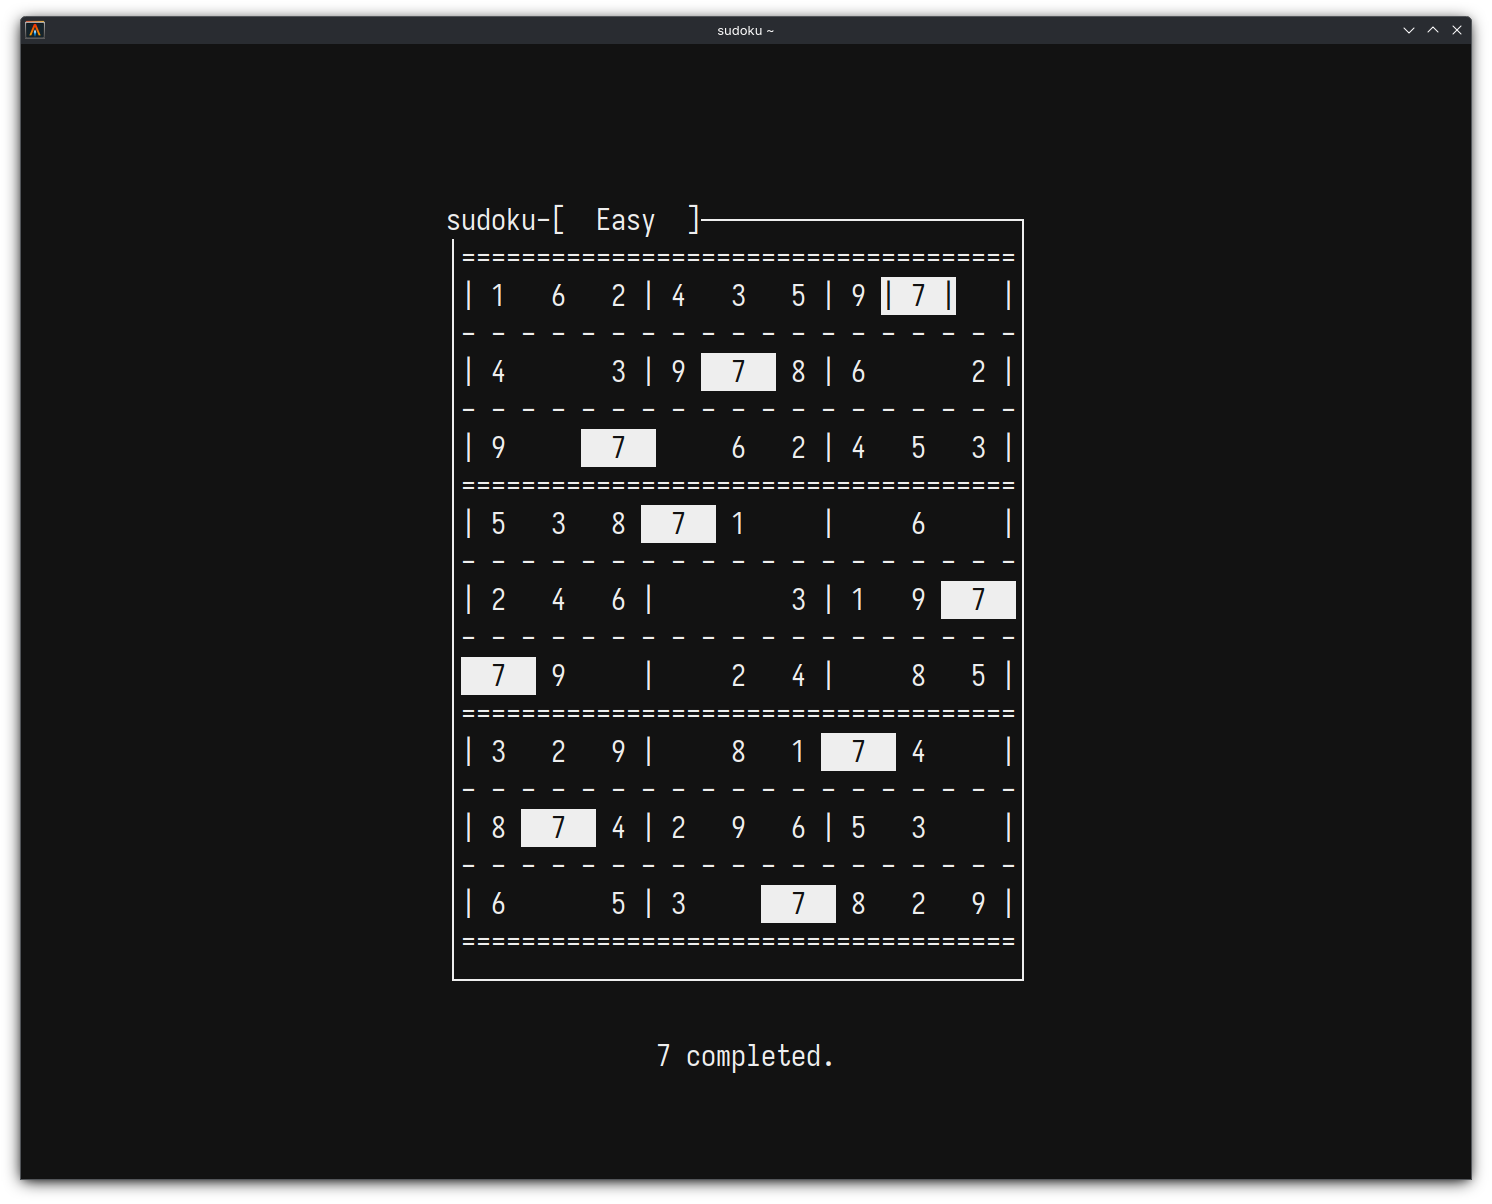
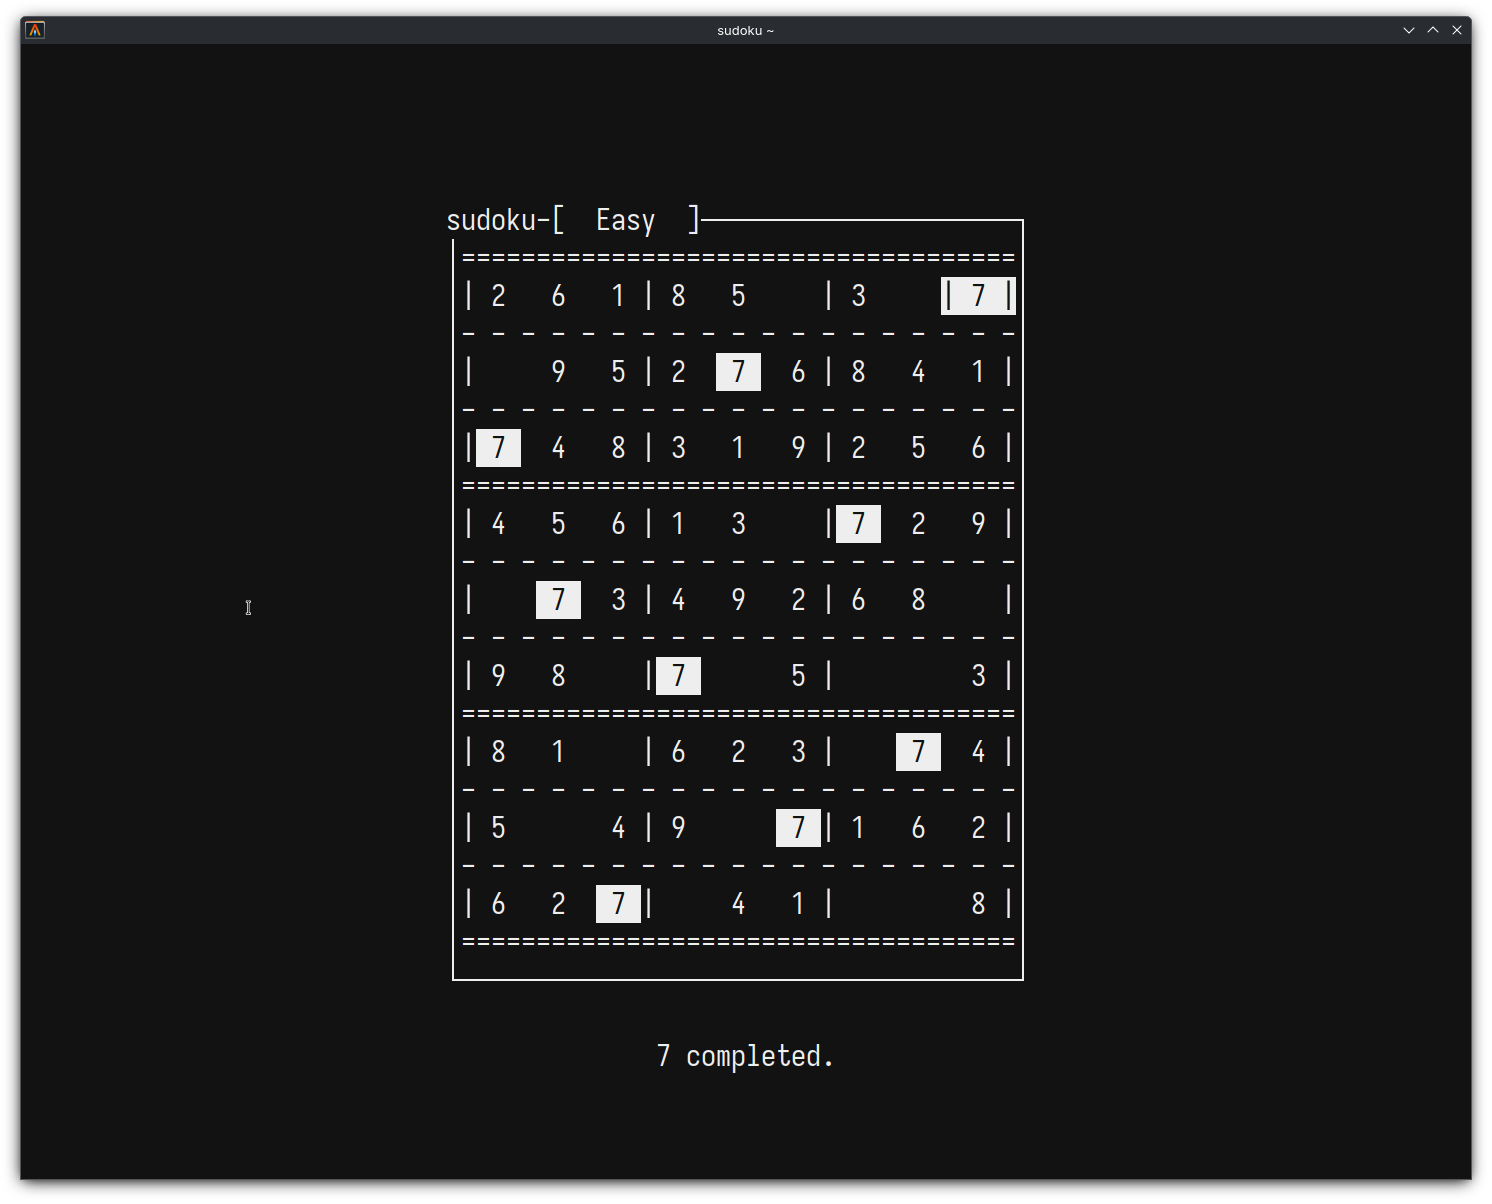
Reduce highlight length for same value cells
To make spotting currently selected cell a bit easier

diff --git a/sudo.c b/sudo.c
@@ -5,7 +5,7 @@
 #include <time.h>
 #include <string.h>
 
-#define VERSION "0.2.2"
+#define VERSION "0.3.0"
 #define ONE_KB 1024
 #define N 9
 
@@ -282,7 +282,8 @@ void highlight_cells(WINDOW *win, size_t grid[N][N], size_t cell_value)
     for (size_t row = 0; row < N; ++row) {
         for (size_t col = 0; col < N; ++col) {
             if (grid[row][col] == cell_value) {
-                mvwprintw(win, row * 2 + 2, col * 4 + 1, "  %zu  ", grid[row][col]);
+                // mvwprintw(win, row * 2 + 2, col * 4 + 1, "  %zu  ", grid[row][col]); // Highlight length of same value cells is equal to currently selected cell
+                mvwprintw(win, row * 2 + 2, col * 4 + 2, " %zu ", grid[row][col]); // Reduced highlight length of same value cells versus currently selected cell
             }
         }
     }
